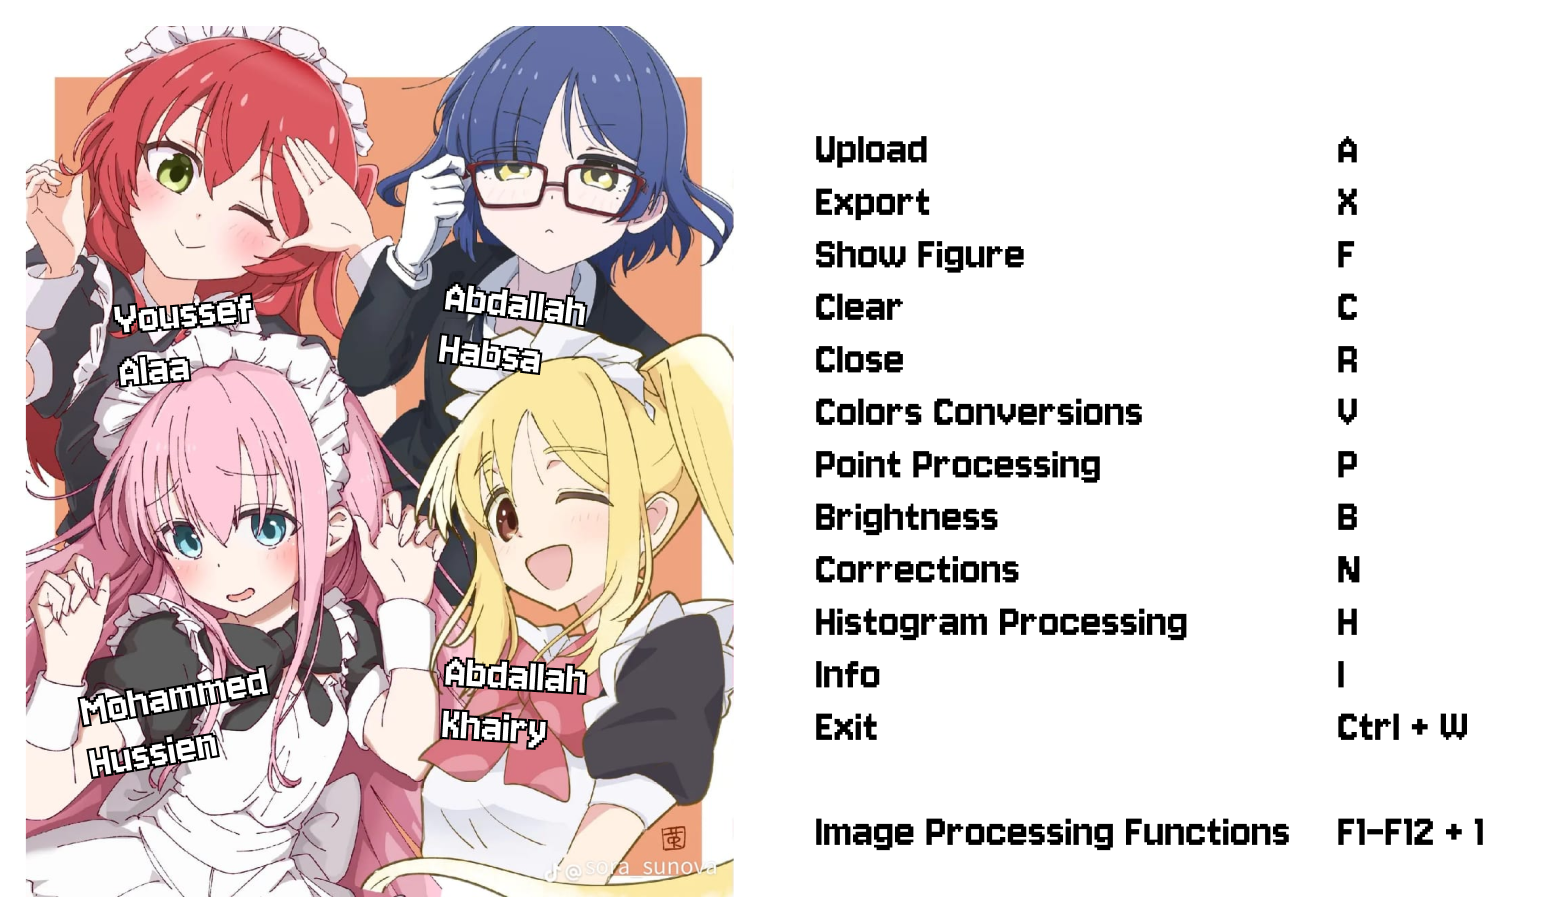
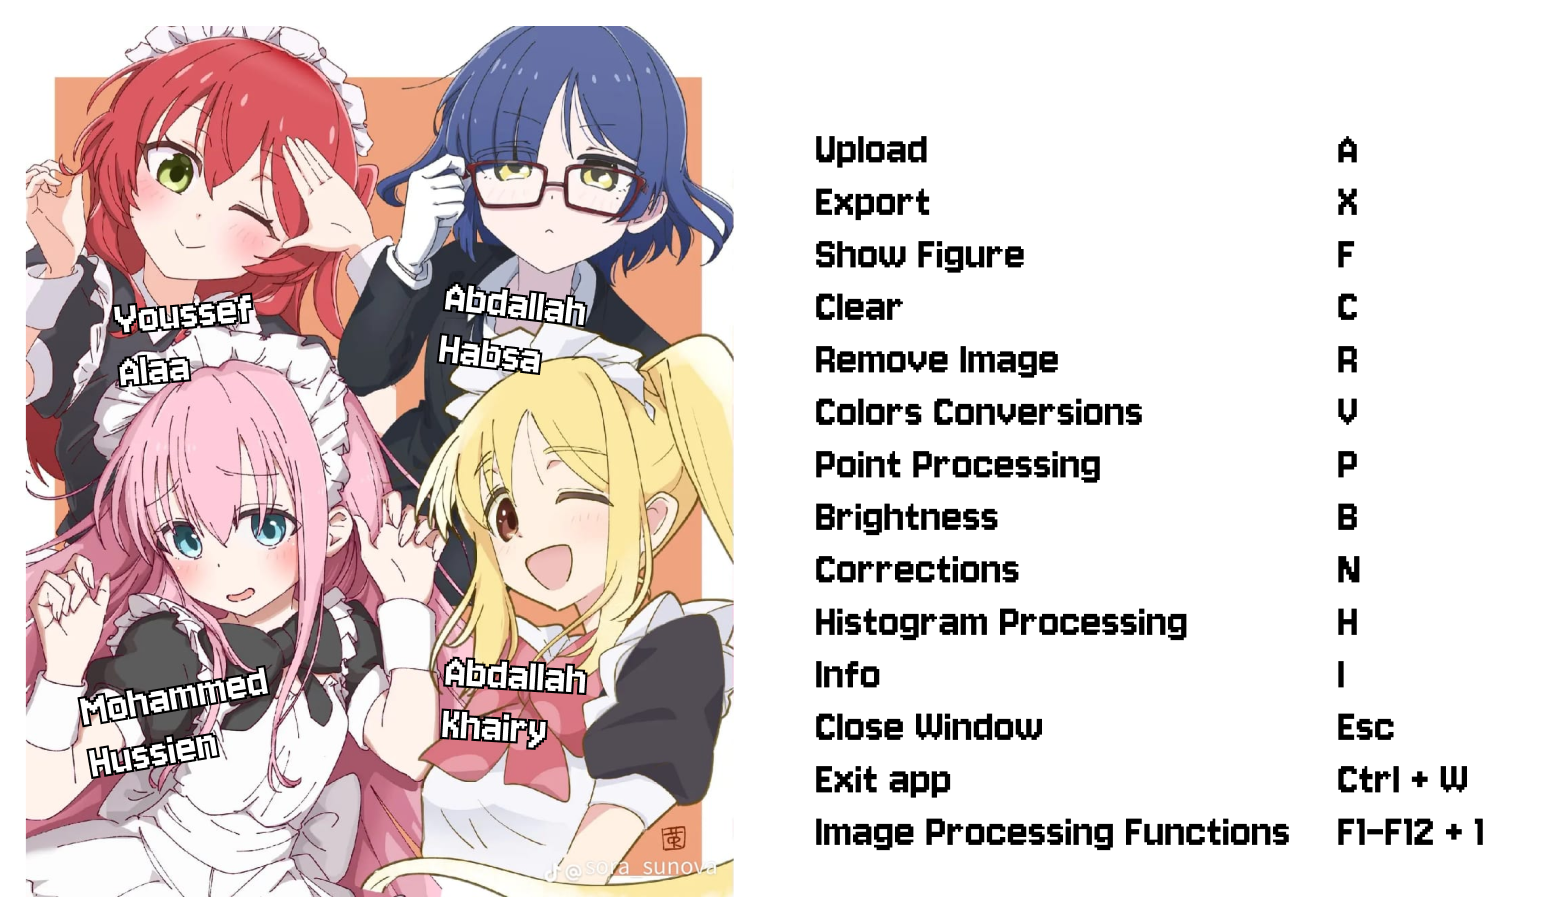
Modify Info & some error messages

Changed region(s): [[0.5288, 0.7584, 0.6844, 0.8797], [0.871, 0.7584, 0.9644, 0.8797], [0.5288, 0.364, 0.6844, 0.4247]]

diff --git a/main.py b/main.py
@@ -462,7 +462,7 @@ class KawaīFotoShoppu(QMainWindow):
             self.close_label.close()
         else:
             self.play_mp3("sounds/boom.mp3")
-            self.raise_error("No Image to Clear, no baaaka!")
+            self.raise_error("No Image to Remove, no baaaka!")
 
     def img_click(self, event):
         self.play_mp3("sounds/button.mp3")
